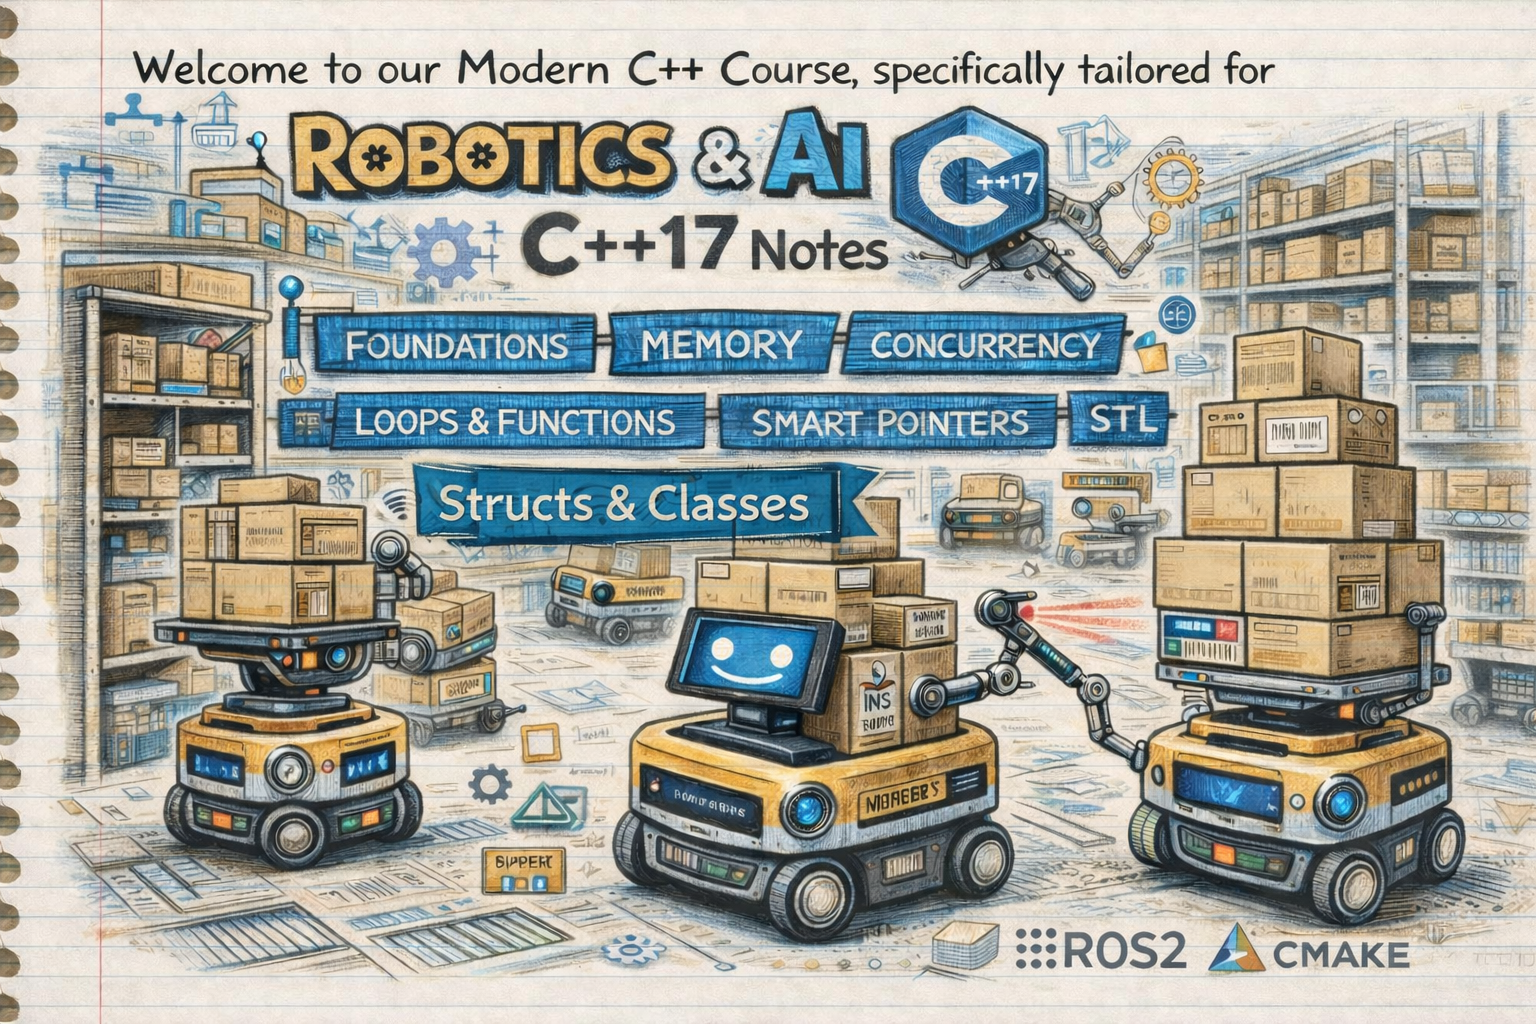
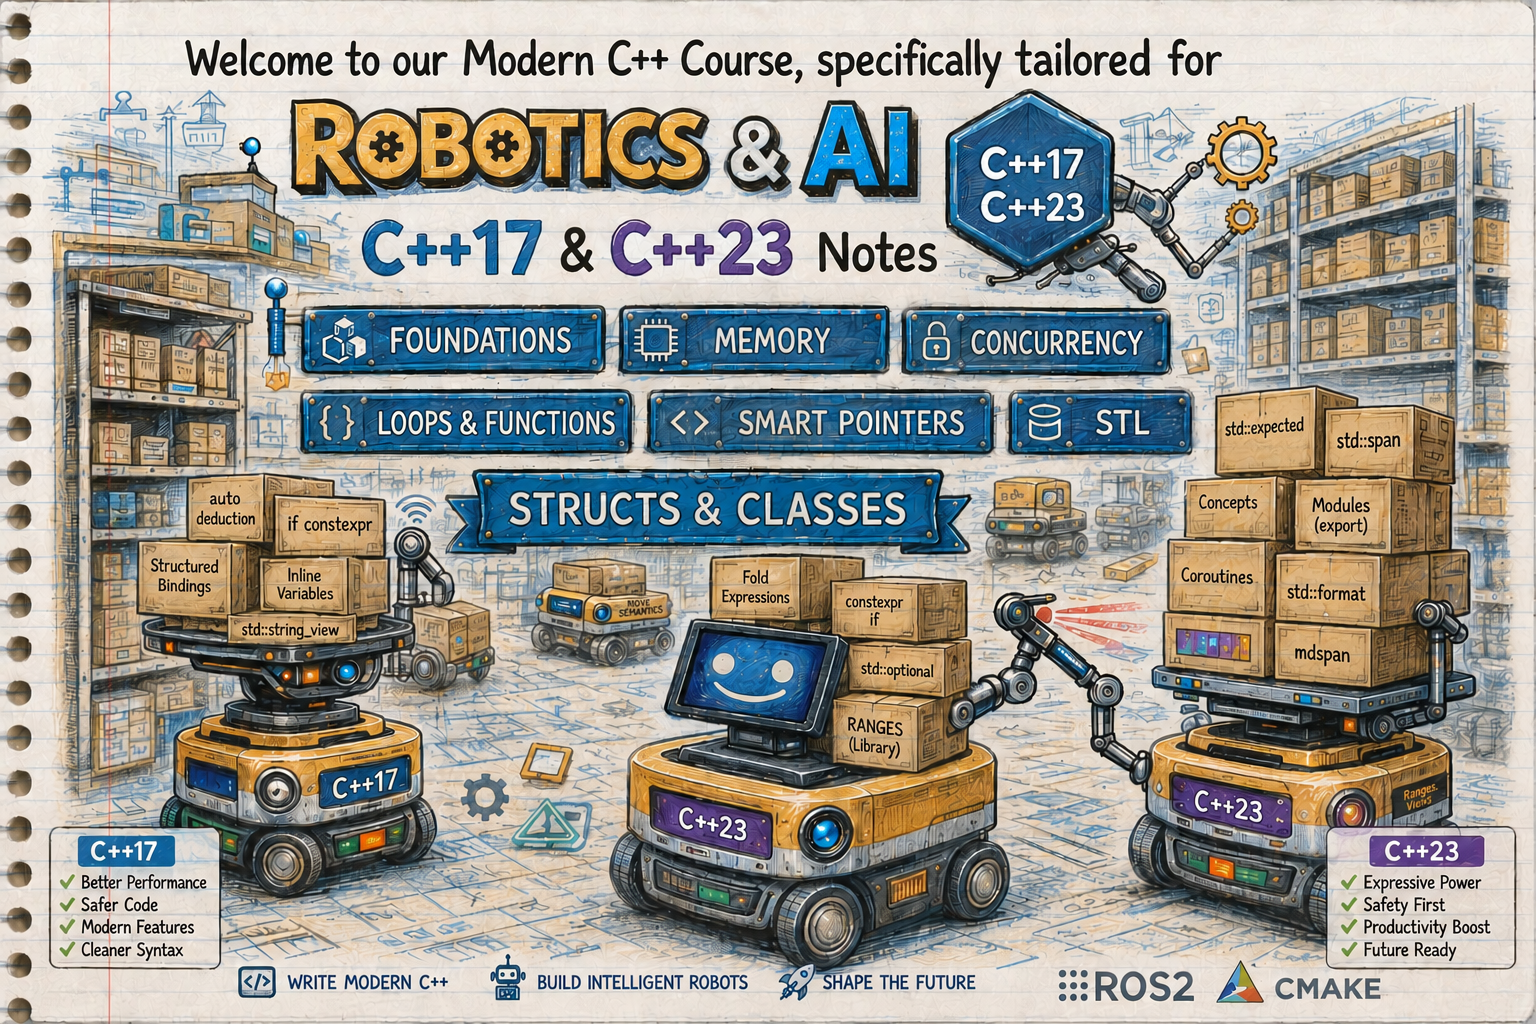
Add C++23 features, stack unwinding diagrams, and std::expected monadic error handling

diff --git a/README.md b/README.md
@@ -1,4 +1,4 @@
-# Robotics & AI C++17 Notes
+# Modern Robotics & AI C++ Notes (C++17 / C++20 / C++23)
 
 ![C++ Intro](./imgs/cpp_intro.png)
 
@@ -26,6 +26,7 @@ Welcome to our Modern C++ Course, specifically tailored for Engineers focusing o
     - [Cementing Foundation: Config Manager](#module-02-foundation)
 3. [Module 03: I/O & Arithmetic](#module-03)
     - [Performance Checklist: I/O](#module-03-performance)
+    - [Modern C++23 Formatting: `std::println`](#module-03-println)
     - [Deep Dive: `std::chrono` — Timing](#module-03-chrono)
     - [Cementing Foundation: Telemetry Math](#module-03-foundation)
 4. [Module 04: Control Flow](#module-04)
@@ -61,6 +62,8 @@ Welcome to our Modern C++ Course, specifically tailored for Engineers focusing o
     - [RVO Optimization](#module-08-rvo)
     - [Lidar Filter Challenge](#module-08-challenge)
     - [Safe Returns (`std::optional`)](#module-08-optional)
+    - [C++ Exception Handling & Stack Unwinding](#module-08-exceptions-stack-unwinding)
+    - [C++23 Monadic `std::expected<T, E>`](#module-08-expected-monadic)
     - [`[[maybe_unused]]` Attribute](#module-08-maybe-unused)
     - [Cementing Foundation: Safety Callback](#module-08-foundation)
 9. [Module 09: Project Structure & CMake](#module-09)
@@ -742,6 +745,51 @@ double distance = std::hypot(dx, dy); // Result: 5.0 (without overflow risk)
 >
 > *   In production, raw `std::cout` is rarely used inside the core node. You'll use structured logging like `spdlog` or ROS 2's built-in `rclcpp::get_logger()`.
 > *   Always write safety-critical errors to `std::cerr` (not `cout`). It is unit-buffered and tied to `std::cout`, meaning errors flush after each output operation and show up instantly, even if the program crashes.
+
+<a name="module-03-println"></a>
+### Modern C++23 Formatting & Printing: `std::print` and `std::println`
+
+C++23 introduces the `<print>` library, fundamentally modernizing terminal output by combining Python/Rust-like format specifiers (`std::format`) with direct, highly-optimized OS stream I/O.
+
+#### Why `std::println` Replaces `std::cout` & `printf`
+
+1. **Automatic Newline Handling (`std::println`)**:
+   - `std::println("Hello World");` **automatically appends a newline character (`\n`)** to the stream! You no longer need manual `<< '\n'` or performance-killing `std::endl`.
+2. **`std::print` vs. `std::println`**:
+   - `std::print("Progress: {}%", 85);` — Prints text **without** appending a newline (ideal for progress bars or inline telemetry).
+   - `std::println("Status: OK");` — Prints text **and automatically appends a newline**.
+3. **Compile-Time Type Safety & Python-Style `{}` Syntax**:
+   - Uses `{}` format specifiers. Unlike unsafe C-style `printf("%s", num)`, modern C++ formatters validate format strings at compile time, eliminating buffer overflow risks and formatting type mismatches.
+4. **Performance & Real-Time Advantage**:
+   - Skips `std::ostream` operator overload (`<<`) cascades, locale conversion locks, and `stringstream` allocations. It writes formatted UTF-8 buffers directly to system file descriptors (e.g. `stdout`/`stderr`), making it significantly faster for high-frequency telemetry logging.
+
+```cpp
+#include <print>  // C++23 Header
+#include <cstdio> // For stderr redirect
+
+int main() {
+    // 1. Automatic newline addition with std::println
+    std::println("Robot Navigation Stack initialized successfully."); // Auto appends '\n'
+
+    // 2. Type-safe positional & precision formatting
+    double x = 3.14159, y = -2.71828;
+    int battery_level = 88;
+    std::println("Pose -> X: {:.2f}, Y: {:.2f} | Battery: {}%", x, y, battery_level);
+
+    // 3. Positional argument indexing {0}, {1}
+    std::println("Joint 1: {0}, Joint 2: {1}, Joint 1 again: {0}", 45.0, 90.0);
+
+    // 4. Output directly to stderr stream
+    std::println(stderr, "[WARN] Motor 3 temperature elevated: {}°C", 68.5);
+}
+```
+
+> | Mechanism | Auto Newline? | Type Safe? | Direct System Stream I/O? | Modern Syntax? |
+> |---|:---:|:---:|:---:|:---:|
+> | `std::cout << x << '\n';` | No (Manual `\n`) | Yes | No (`ostream` cascade) | Verbose |
+> | `printf("X: %f\n", x);` | No (Manual `\n`) | **No** (Unsafe runtime crash) | Yes | Legacy C |
+> | `std::print("X: {}\n", x);` | No (Manual `\n`) | Yes | Yes | Modern C++20/23 |
+> | **`std::println("X: {}", x);`** | **YES (Automatic)** | **Yes** | **Yes (Fastest)** | **Modern C++23** |
 
 <a name="module-03-chrono"></a>
 ### Deep Dive: `std::chrono` — Timing in Robotics
@@ -1913,14 +1961,11 @@ void onSensorData(double reading, [[maybe_unused]] int timestamp) {
 > **Rule of Thumb**: Use `[[maybe_unused]]` sparingly. If a parameter is *always* unused, consider removing it from the interface. If it's unused *only in some configurations* (e.g., debug vs release), `[[maybe_unused]]` is the correct tool.
 
 <a name="module-08-optional"></a>
-### Error Handling Philosophy: Exceptions vs `std::optional`
+### Safe Returns: `std::optional` (Value or Nothing)
 
 What happens when your `readSensor()` function fails because the Lidar unplugged?
 
-Most safety-critical robotics code (e.g., following MISRA/AUTOSAR standards) completely bans C++ exceptions via the `-fno-exceptions` compiler flag. 
-
-*   **Why?** Exceptions introduce non-deterministic stack unwinding latency. You cannot guarantee a 1000Hz control loop deadline if an exception is thrown.
-*   **The Solution**: Instead of throwing `std::runtime_error` or returning unsafe raw pointers, modern robotics utilities use `std::optional` (or C++23 `std::expected`) to mathematically and safely communicate that a function might fail to return a value.
+In modern C++, returning `std::optional<T>` allows functions to express that a return value may or may not exist, avoiding dangerous null pointer dereferences or arbitrary sentinel values (like `-999.0`).
 
 ```cpp
 #include <optional>
@@ -1950,34 +1995,254 @@ int main() {
 }
 ```
 
-#### Future-Proofing: C++23 `std::expected`
-While `std::optional` is perfect for "value or nothing", it doesn't tell you *why* a failure occurred (Was the Lidar unplugged? Did it overheat? Was it a timeout?). 
+<a name="module-08-exceptions-stack-unwinding"></a>
+### C++ Exception Handling & Stack Unwinding Mechanics
 
-C++23 introduces `std::expected<T, E>`. It returns either the expected value of type `T`, or an error of type `E`. This is rapidly becoming the standard in modern ROS 2 and embedded codebases because it provides detailed error data with zero exception-handling overhead.
+While safety-critical real-time robotics (MISRA C++ / AUTOSAR) often ban C++ exceptions via compiler flags (`-fno-exceptions`), understanding exceptions and **Stack Unwinding** is vital when working with host utilities, ROS 2 nodes, simulation tools (Gazebo/Webots), and general C++ application development.
+
+#### 1. How C++ Exception Handling Works (`try`, `catch`, `throw`)
+
+An exception represents an abnormal condition that interrupts normal execution flow. 
+- `throw`: Emits an exception object (usually derived from `std::exception`).
+- `try`: Demarcates a code block where exceptions might occur.
+- `catch`: Defines an exception handler for specific exception types.
 
 ```cpp
-#include <expected>
+#include <iostream>
+#include <stdexcept>
+#include <string>
 
-enum class SensorError { Timeout, Disconnected, Overheating };
+// Custom Exception for Robotics Domain
+class HardwareException : public std::runtime_error {
+public:
+    explicit HardwareException(const std::string& msg) 
+        : std::runtime_error("[HARDWARE ERROR] " + msg) {}
+};
 
-std::expected<double, SensorError> getPreciseRange() {
-    bool hardware_timeout = true; 
-    if (hardware_timeout) return std::unexpected(SensorError::Timeout);
-    return 12.5;
+struct LidarSensor {
+    std::string name;
+    
+    ~LidarSensor() {
+        std::cout << "[RAII Destructor] Cleaning up hardware lock for " << name << '\n';
+    }
+};
+
+void readLidarHardware() {
+    LidarSensor sensor{"RPLidar A3"};
+    std::cout << "Attempting hardware connection...\n";
+    
+    // Simulating sudden USB bus disconnect
+    throw HardwareException("USB Bus Read Timeout on /dev/ttyUSB0");
+}
+
+void processSensorPipeline() {
+    std::cout << "Entering processSensorPipeline()\n";
+    readLidarHardware();
+    std::cout << "This line will NEVER be executed due to exception!\n";
 }
 
 int main() {
-    auto result = getPreciseRange();
-    if (result.has_value()) {
-        std::cout << "Range: " << result.value() << "m\n";
-    } else {
-        // We now know exactly *why* it failed without throwing an exception!
-        if (result.error() == SensorError::Timeout) {
-            std::cerr << "Attempting to reconnect...\n";
-        }
+    try {
+        processSensorPipeline();
+    } catch (const HardwareException& ex) {
+        std::cerr << "Caught Domain Error: " << ex.what() << '\n';
+    } catch (const std::exception& ex) {
+        std::cerr << "Caught Standard Error: " << ex.what() << '\n';
+    } catch (...) {
+        std::cerr << "Caught Unknown Exception!\n";
     }
+    std::cout << "Program recovered cleanly and continues execution.\n";
 }
 ```
+
+#### 2. Deep Dive: What is Stack Unwinding?
+
+**Stack Unwinding** is the runtime process of unwinding active stack frames from the point of a `throw` up to the matching `catch` block.
+
+When a `throw` expression is executed:
+1. Normal execution pauses immediately.
+2. The runtime exception engine inspects the current function frame for a matching `try-catch` handler.
+3. If no handler exists in the current function:
+   - **Reverse-Order Destructor Execution**: All local automatic (stack-allocated) objects in that frame are destroyed in the **exact reverse order of their construction** (RAII cleanup).
+   - The current stack frame is **popped** from the call stack.
+4. The engine unwinds to the parent function frame and repeats the search.
+5. Once a matching `catch` block is found:
+   - Destructors for intermediate stack frames have all finished.
+   - Program execution resumes inside the body of the `catch` handler.
+
+> [!CAUTION]
+> **The `noexcept` & Destructor Golden Rule**: 
+> Never throw an exception inside a destructor during stack unwinding! If a destructor throws while unwinding another exception, C++ cannot handle two active exceptions simultaneously and immediately invokes `std::terminate()`, abruptly crashing your process.
+
+#### 3. Stack Unwinding Mermaid Flowchart
+
+```mermaid
+flowchart TD
+    subgraph Execution ["Stack Execution & Unwinding Pipeline"]
+        A["1. main() enters try block"] --> B["2. calls processSensorPipeline()"]
+        B --> C["3. calls readLidarHardware()"]
+        C --> D["4. THROW HardwareException"]
+        
+        D --> E["5. STACK UNWINDING BEGINS"]
+        E --> F["Execute ~LidarSensor() in readLidarHardware() frame"]
+        F --> G["Pop readLidarHardware() stack frame"]
+        
+        G --> H["Unwind processSensorPipeline() frame (Destroy local objects)"]
+        H --> I["Pop processSensorPipeline() stack frame"]
+        
+        I --> J["6. Match catch(const HardwareException&) in main()"]
+        J --> K["7. Program resumes safely in main() catch block"]
+    end
+
+    style D fill:#ff9999,stroke:#333,stroke-width:2px
+    style E fill:#ffcc99,stroke:#333,stroke-width:2px
+    style K fill:#99ff99,stroke:#333,stroke-width:2px
+```
+
+#### 4. Stack Unwinding Memory Frame Architecture (ASCII Diagram)
+
+```text
+================================================================================
+                    C++ STACK UNWINDING MEMORY LAYOUT
+================================================================================
+
+ [STACK BOTTOM] (Higher Memory Addresses)
+ +----------------------------------------------------------------------------+
+ | main() Frame                                                               |
+ |   - try { processSensorPipeline(); }                                      |
+ |   - catch (const HardwareException& ex) <--- [TARGET CATCH FOUND HERE!]    |
+ +----------------------------------------------------------------------------+
+       ^
+       | Unwinds to parent frame
+ +----------------------------------------------------------------------------+
+ | processSensorPipeline() Frame                                              |
+ |   - MotorGuard motor_guard;  <--- 2nd Destructor Executed (~MotorGuard)    |
+ |   - PipelineState state;     <--- 1st Destructor Executed (~State)         |
+ |   - calls readLidarHardware()                                              |
+ +----------------------------------------------------------------------------+
+       ^
+       | Unwinds frame (Pops frame)
+ +----------------------------------------------------------------------------+
+ | readLidarHardware() Frame                                                  |
+ |   - LidarSensor sensor;      <--- 0th Destructor Executed (~LidarSensor)   |
+ |   - THROW HardwareException! <--- [EXCEPTION ORIGIN]                       |
+ +----------------------------------------------------------------------------+
+ [STACK TOP] (Lower Memory Addresses)
+
+ ========================== UNWINDING STEP-BY-STEP ============================
+ 1. Exception thrown inside readLidarHardware().
+ 2. Runtime checks readLidarHardware() for handler -> None found.
+ 3. Destructor ~LidarSensor() runs -> Stack frame readLidarHardware() POPPED.
+ 4. Control unwinds to processSensorPipeline() -> None found.
+ 5. Destructors ~PipelineState() then ~MotorGuard() run -> Frame POPPED.
+ 6. Control unwinds to main() -> Matching catch(HardwareException&) FOUND!
+ 7. Stack unwinding halts; execution continues inside main()'s catch block.
+================================================================================
+```
+
+<a name="module-08-expected-monadic"></a>
+### C++23 Monadic `std::expected<T, E>` (Value or Detailed Error)
+
+While `std::optional` provides "value or nothing", it doesn't convey *why* an operation failed. Conversely, C++ exceptions convey error details but suffer from non-deterministic stack unwinding latency.
+
+C++23 introduces **`std::expected<T, E>`** (`<expected>`), offering the perfect balance: it returns either an expected value of type `T` or a detailed error of type `E` **with zero exception overhead and deterministic performance**.
+
+#### 1. Core Mechanics: `T` or `std::unexpected<E>`
+
+```cpp
+#include <expected>
+#include <iostream>
+#include <string>
+
+enum class ControllerError {
+    DeviceOffline,
+    Overheating,
+    InvalidCommand,
+    LowVoltage
+};
+
+// Returns double on success, or ControllerError on failure
+std::expected<double, ControllerError> getJointAngle(int joint_id) {
+    if (joint_id < 0 || joint_id > 6) {
+        return std::unexpected(ControllerError::InvalidCommand);
+    }
+    bool hardware_ok = false;
+    if (!hardware_ok) {
+        return std::unexpected(ControllerError::DeviceOffline);
+    }
+    return 45.2; // Returns success value
+}
+```
+
+#### 2. C++23 Monadic Operations (`.and_then()`, `.transform()`, `.or_else()`)
+
+C++23 elevates `std::expected` into a **monadic error processing pipeline**, allowing functional chaining of dependent operations without nested `if/else` checks.
+
+- **`.and_then(fn)`**: Monadic bind. Calls `fn` (which returns another `std::expected`) **only if** the current expected object has a value.
+- **`.transform(fn)`**: Monadic map. Transforms the value inside `std::expected` using `fn` (which returns raw value `U`), wrapping the result back in `std::expected<U, E>`.
+- **`.or_else(fn)`**: Monadic error handling. Executes `fn` **only if** an error occurred, allowing fallback recovery or error translation.
+- **`.value_or(default_val)`**: Unwraps the value, returning `default_val` if an error occurred.
+
+```cpp
+#include <expected>
+#include <iostream>
+#include <cmath>
+
+enum class ProcessingError {
+    InvalidRawData,
+    CalculationOverflow,
+    OutofBounds
+};
+
+// Step 1: Read raw encoder ticks
+std::expected<int, ProcessingError> readEncoderTicks() {
+    bool sensor_ok = true;
+    if (!sensor_ok) return std::unexpected(ProcessingError::InvalidRawData);
+    return 2048;
+}
+
+// Step 2: Convert ticks to radians (returns std::expected)
+std::expected<double, ProcessingError> ticksToRadians(int ticks) {
+    if (ticks < 0) return std::unexpected(ProcessingError::InvalidRawData);
+    constexpr double ticks_per_rev = 4096.0;
+    return (ticks / ticks_per_rev) * 2.0 * M_PI;
+}
+
+// Step 3: Normalize angle (returns raw double for .transform)
+double normalizeAngle(double rad) {
+    return std::fmod(rad, 2.0 * M_PI);
+}
+
+int main() {
+    // -------------------------------------------------------------------------
+    // Monadic Pipeline: readEncoderTicks -> ticksToRadians -> normalizeAngle
+    // -------------------------------------------------------------------------
+    auto final_angle = readEncoderTicks()
+        .and_then(ticksToRadians)    // Chained step returning std::expected
+        .transform(normalizeAngle)   // Transformation step returning value
+        .or_else([](ProcessingError err) -> std::expected<double, ProcessingError> {
+            std::cerr << "[RECOVERY] Encoder read failed! Substituting 0.0 rad fallback.\n";
+            return 0.0; // Fallback recovery
+        });
+
+    if (final_angle.has_value()) {
+        std::cout << "Processed Angle: " << *final_angle << " rad\n";
+    }
+
+    // Safe extraction with default fallback
+    double safe_val = final_angle.value_or(0.0);
+    std::cout << "Safe Angle: " << safe_val << " rad\n";
+}
+```
+
+#### 3. Error Handling Architecture Comparison Matrix
+
+> | Strategy | Convey Error Detail? | Deterministic Latency? | Compatible with `-fno-exceptions`? | Monadic Chaining Support? | Ideal Robotics Use Case |
+> |---|:---:|:---:|:---:|:---:|---|
+> | **C++ Exceptions** (`try/catch`) | Yes (`std::exception`) | **No** (Unwinding jitter) | No | No | Non-real-time tools, configuration loading, GUI app setup |
+> | **`std::optional<T>`** | No (Value or None) | **Yes** (Zero overhead) | Yes | Yes (C++23) | Simple getters, optional sensor readings |
+> | **`std::error_code`** | Yes (System codes) | **Yes** | Yes | No | Low-level C-style system APIs |
+> | **`std::expected<T, E>` (C++23)** | **Yes (Rich Error Type `E`)** | **Yes (Zero overhead)** | **Yes** | **Yes (`.and_then()`, `.transform()`)** | **Modern ROS 2 nodes, real-time control loops, hardware drivers** |
 
 <a name="module-08-foundation"></a>
 ### Foundation Cementing: The Callback-Driven Logic
